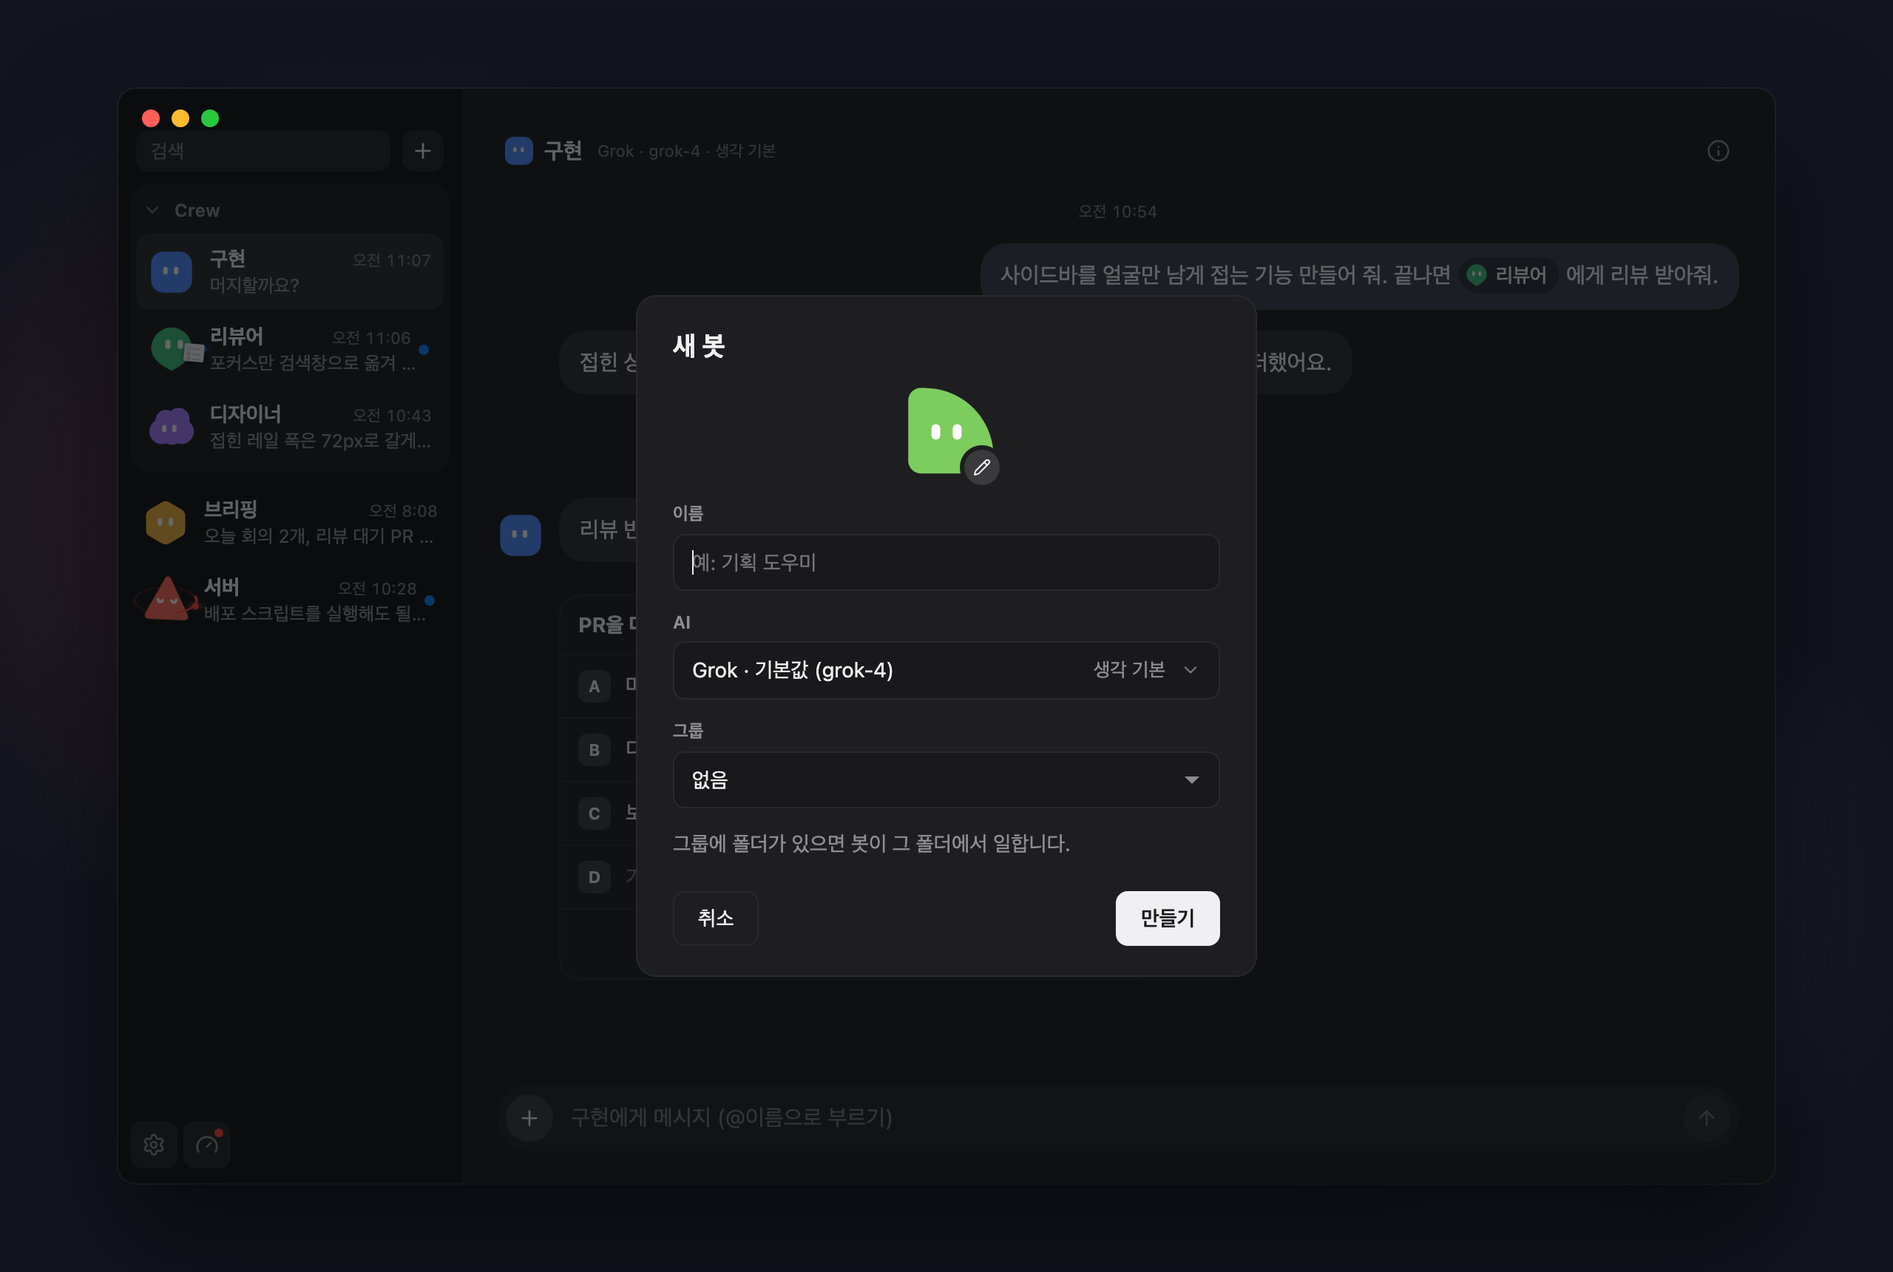
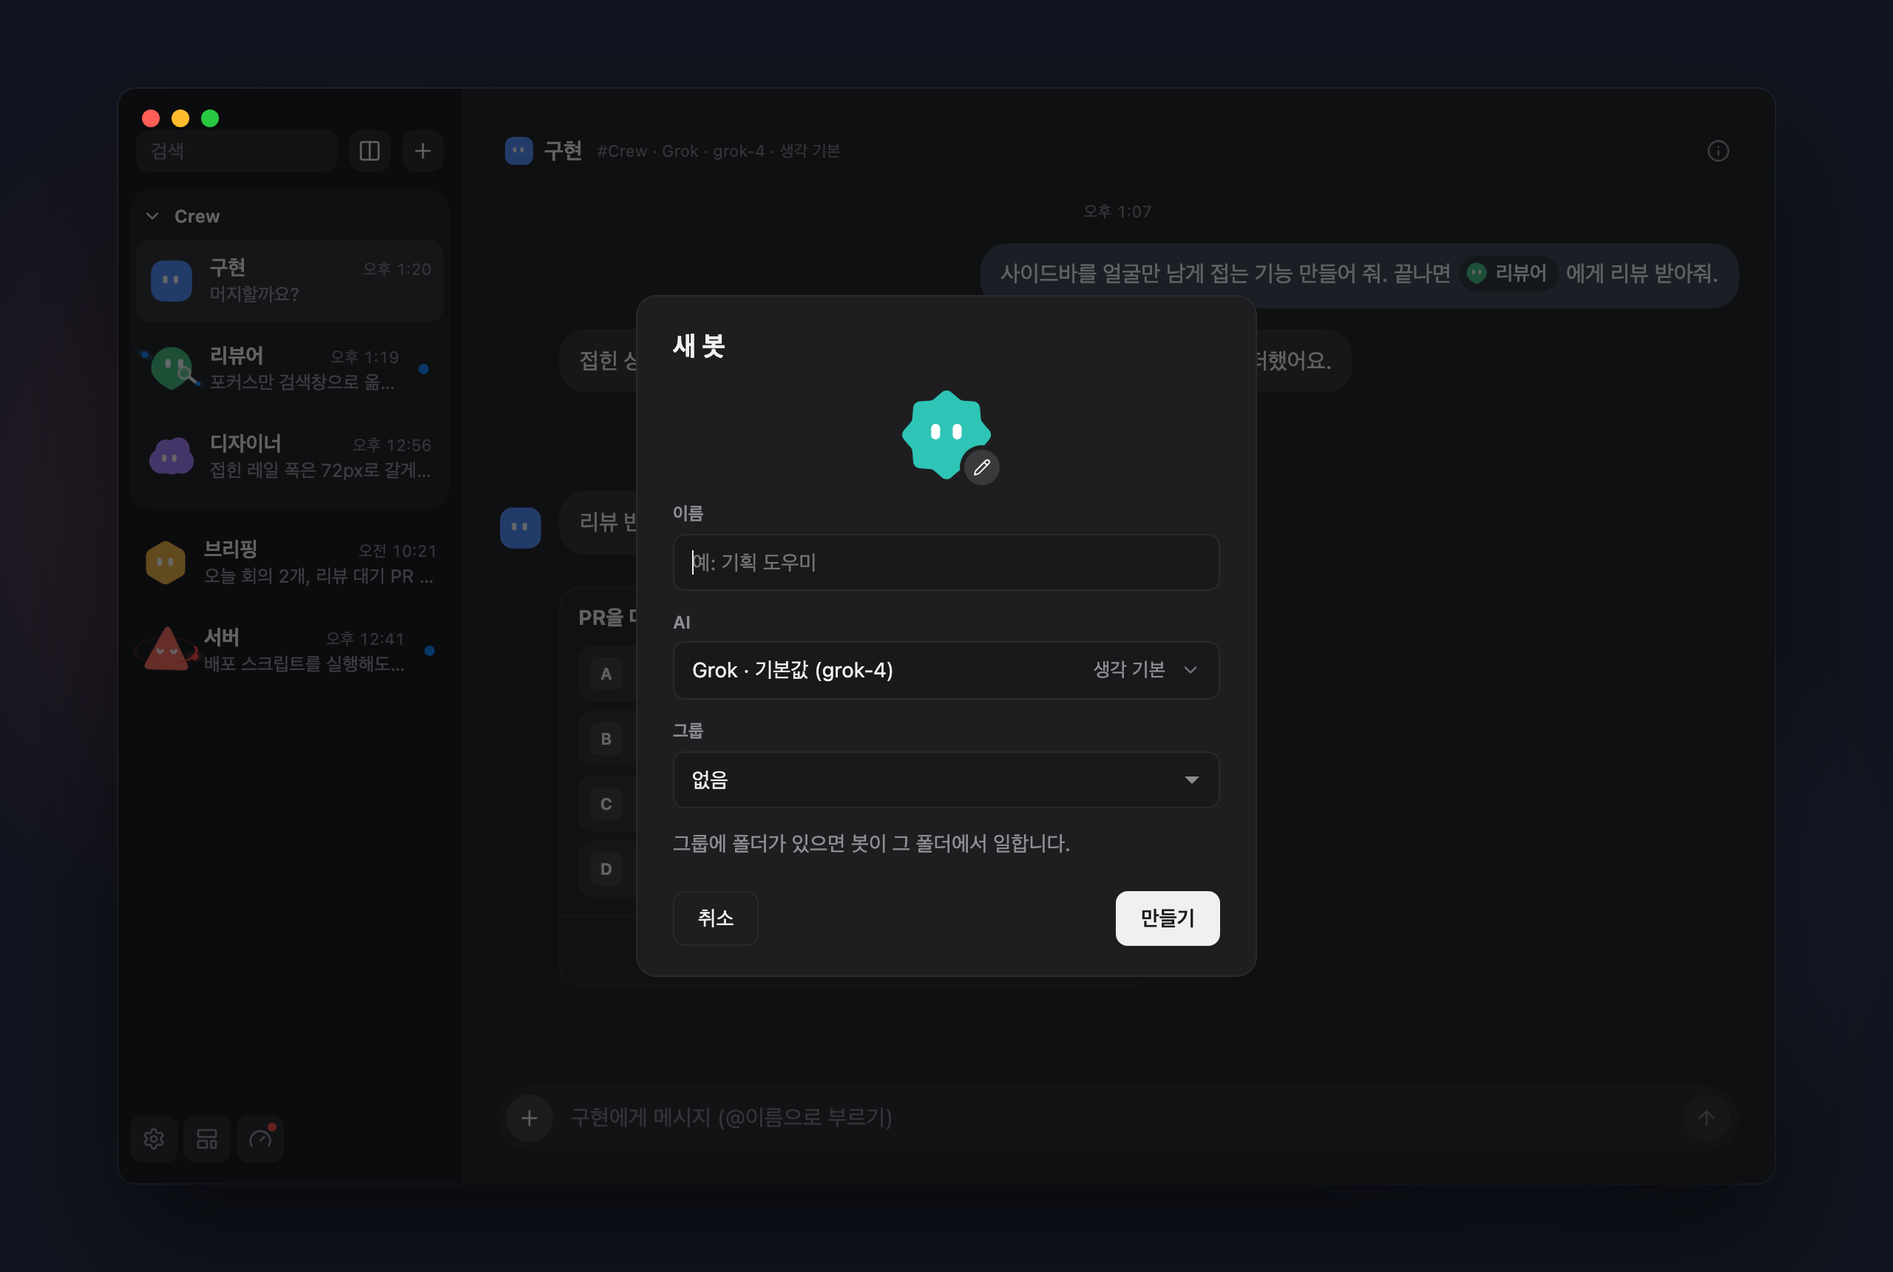
Bring the README up to 0.14.0: phones, templates, the archive, group leads, and the CLI's tell --now/--fyi and show. (#387)
Re-render the screenshots and add the archive sheet and a phone at 390 px.
Chrome keeps a headless window at least 500 wide, so phone.mjs sets the
width through DevTools.

diff --git a/crates/crew/ui/src/readme.tsx b/crates/crew/ui/src/readme.tsx
@@ -223,6 +223,17 @@ if (shot === "file") {
 const probe: RemoteServer = {
   url: "wss://router.acme.dev:7420", name: "crew-router", version: "0.1.0", protocol: 1, title: "Acme Team", signup: "invite",
 };
+// `?shot=archive`: the bot info sheet's 보관함, from links and files the
+// chat brought up. A made-up repository and paths, no one's real ones.
+if (shot === "archive") {
+  thread.impl.unshift(
+    { id: "a1", role: "assistant", from: "impl", ts: at(60 * 26), text: "PR 올렸어요: https://github.com/acme/app/pull/128\n관련 이슈는 https://github.com/acme/app/issues/121 이에요." },
+    { id: "a2", role: "assistant", from: "impl", ts: at(60 * 5), text: "설계 문서는 `~/Projects/app/docs/sidebar.md` 에 정리했어요. 캡처: ![접힌 레일](~/Projects/app/shots/rail.png)" },
+    { id: "a3", role: "assistant", from: "impl", ts: at(40), text: "배포했어요: https://app.acme.dev/preview 그리고 릴리즈 https://github.com/acme/app/releases/tag/v2.4.0" },
+    { id: "a4", role: "assistant", from: "impl", ts: at(20), text: "후속 PR: https://github.com/acme/app/pull/131" },
+  );
+}
+
 // The App opens the first bot in the list.
 const first =
   shot === "routines" ? "brief" : shot === "remote-handon" ? "rep" : remoteShot ? "acme/acc_k3j9x0" : "impl";
@@ -253,6 +264,16 @@ mockIPC(
         return { models: list, default: list[0] ?? null, installed: true };
       }
       case "get_group_memory": return "";
+      case "get_pins": return ["https://github.com/acme/app/pull/131"];
+      case "link_states": {
+        const known: Record<string, { kind: string; state: string; title: string }> = {
+          "https://github.com/acme/app/pull/128": { kind: "pr", state: "merged", title: "Fold the sidebar down to faces" },
+          "https://github.com/acme/app/issues/121": { kind: "issue", state: "closed", title: "Sidebar takes too much room" },
+          "https://github.com/acme/app/pull/131": { kind: "pr", state: "open", title: "Move focus to search when the rail unfolds" },
+        };
+        return (a.urls as string[]).map((url) => ({ url, ...(known[url] ?? {}) }));
+      }
+      case "file_states": return (a.paths as string[]).map(() => "exists");
       case "read_text_file": {
         const path = String(a.path);
         if (!path.endsWith(".ts") && !path.endsWith(".tsx")) throw `not found: ${path}`;
@@ -296,6 +317,13 @@ when(
     if (shot === "window") when(() => document.querySelector<HTMLElement>(".note-run-head"), (el) => el.click());
     if (shot === "new-bot") key("n");
     if (shot === "routines") key("R", true);
+    if (shot === "archive") {
+      key("i");
+      when(
+        () => [...document.querySelectorAll<HTMLElement>(".pane-tabs button")].find((b) => b.textContent === "보관함") ?? null,
+        (tab) => tab.click(),
+      );
+    }
     if (shot === "remote-add" || shot === "remote-join") {
       document.querySelector<HTMLElement>(".search-row .icon-btn:last-child")?.click();
       when(

diff --git a/docs/readme/frame.html b/docs/readme/frame.html
@@ -42,6 +42,9 @@
       gap: 8px;
       pointer-events: none;
     }
+    /* `&phone=1`: a phone, 390 wide, no window buttons. */
+    .phone .window { width: 390px; border-radius: 44px; box-shadow: 0 40px 80px rgba(0, 0, 0, 0.5), 0 0 0 10px #1c1c1e, 0 0 0 11px rgba(255, 255, 255, 0.08); }
+    .phone .traffic { display: none; }
     .traffic i {
       width: 12px;
       height: 12px;
@@ -59,6 +62,7 @@
   <script>
     const q = new URLSearchParams(location.search);
     document.getElementById("window").style.height = (q.get("h") || "740") + "px";
+    if (q.get("phone")) document.body.classList.add("phone");
     document.getElementById("app").src = q.get("img");
   </script>
 </body>

diff --git a/README.md b/README.md
@@ -10,6 +10,7 @@
 - 대화 중에 `@이름`으로 다른 봇을 부르거나
 - 봇끼리 직접 일을 넘기게 하거나
 - 정해 둔 시각에 루틴으로 봇에게 일을 맡겨요
+- 밖에서는 휴대폰 브라우저로 같은 화면을 열어요
 
 Crew는 모델을 내장하지 않아요. 설치해 둔 CLI를 실행하고 그 답만 말풍선으로 보여 줘요.
 
@@ -44,9 +45,10 @@ xattr -dr com.apple.quarantine /Applications/Crew.app
 ## 시작하기
 
 1. Crew를 열거나 터미널에서 `crew`를 실행해요.
-2. **새 봇** (`⌘N`)에서 이름, 아바타, AI·모델·생각(effort), 그룹을 골라요. 고를 것 없이 바로 만들려면 `⌘⇧N`을 눌러요. 만들어진 봇이 먼저 어떤 일을 맡을지 물어요.
+2. 처음이라면 사이드바의 **템플릿**에서 권장 팀을 골라 그룹을 한 번에 만들어도 돼요. 봇 하나씩 만들려면 **새 봇** (`⌘N`)에서 이름, 아바타, AI·모델·생각(effort), 그룹을 골라요. 고를 것 없이 바로 만들려면 `⌘⇧N`을 눌러요. 만들어진 봇이 먼저 어떤 일을 맡을지 물어요.
 3. 메시지를 보내요. `@이름`으로 다른 봇을 부르고, `⌘U`로 파일을 붙이고, `/이름`으로 저장해 둔 스킬을 넣어요.
 4. 이름 바꾸기, 봇·그룹 만들기, 루틴 등록도 채팅에서 봇에게 부탁하면 돼요.
+5. 설정 › 일반 › **내 이름**을 적어 두면 봇이 그 이름으로 불러요.
 
 > 봇은 기본으로 각 CLI의 승인 프롬프트를 건너뛰도록 실행돼요(`--dangerously-skip-permissions`, `--yolo` 등). 봇이 작업 폴더에서 바로 파일을 고치고 명령을 실행한다는 뜻이니, 알고 쓰세요. 명령은 봇 정보에서 바꿀 수 있어요.
 
@@ -63,19 +65,49 @@ xattr -dr com.apple.quarantine /Applications/Crew.app
 **채팅**
 
 - 스트리밍 말풍선, 마크다운·표 렌더링, 말풍선마다 복사·답장
-- 봇이 작업 중일 때 보낸 메시지는 기본으로 지금 턴을 멈추고 바로 시작해요. 설정에서 대기열로 바꾸면 순서대로 기다리고, 대기 중인 줄은 고치거나 취소할 수 있어요
+- 답장을 누르면 그 말풍선이 입력창 위에 인용으로 붙고, 보낸 메시지에도 인용이 남아요. 누르면 원래 말풍선으로 가요
+- 봇이 작업 중일 때 보낸 메시지는 기본으로 지금 턴을 멈추고 바로 시작해요(인터럽트). 설정 › 메시지 전달에서 대기열로 바꾸면 순서대로 기다리고, 대기 중인 줄은 고치거나 취소할 수 있어요. 대기열에서도 `⌘⇧↩`는 바로 보내요
+- 답을 마치고 CI 같은 백그라운드 작업만 지켜보는 봇에게는, 인터럽트여도 감시가 끝난 뒤에 보내요
 - 봇이 고르거나 적으라고 물으면 채팅에 질문 카드가 떠요. 여러 질문은 한 카드에서 넘겨 가며 답해요
 - 도구 호출과 서브 에이전트 작업은 한 줄로 접히고, 누르면 사이드 채팅으로 열려요
 - 대화를 열면 처음 안 읽은 줄로 가요. 안 읽음 표시, Dock 배지, 완료·차단·루틴 실패 알림
-- 다른 봇이 질문하거나, 승인을 기다리거나, 실패하거나, 긴 작업을 끝내면 창 위 가운데 아일랜드가 그 봇의 표정으로 알려 줘요. 저장·오류 같은 앱 알림은 같은 자리에 상태 점으로 떠요
+- 다른 봇이 질문하거나, 승인을 기다리거나, 실패하거나, 긴 작업을 끝내면 창 위 가운데 아일랜드가 그 봇의 표정으로 알려 줘요. 알림이 쌓이면 묶음 한 줄에 가장 급한 것(질문·승인 먼저)을 보여 주고, 몇 개 더 있는지와 이동 버튼을 붙여요
+- 저장·오류 같은 앱 알림은 같은 자리에 상태 점으로 잠깐 떴다 사라지고, 묶음에는 쌓이지 않아요
+- `⌘K`로 봇 이름을 쳐서 바로 가고, `⌘F`로 대화를 검색해요. `⌘D` / `⌘⇧D`로 창을 나눠 두 봇을 같이 봐요
 
 **봇과 그룹**
 
 - 도형 아바타와 색, 또는 사진. 얼굴 표정으로 작업 중·확인 대기·실패·질문을 알려 줘요
 - AI는 나중에 봇 정보에서 바꿔도 대화가 이어져요
-- 복제하면 복사본이 먼저 인사하고 어떤 일을 맡을지 물어요. 대화 지우기, 삭제
+- 복제하면 창이 떠서 함께 가져갈 것을 골라요. 프로필 사진, 예약된 일, 봇 메모리, 같은 그룹, 대화 내용. AI·모델·역할·얼굴 모양은 늘 복사돼요. 대화 지우기, 삭제
 - 사이드바 그룹으로 봇을 묶고, 그룹마다 작업 폴더와 그룹 메모리를 정할 수 있어요
+- 그룹 설정의 **작업 폴더 분리**를 켜면 그 그룹의 봇은 저마다 git 워크트리에서 일하고, 공유 체크아웃은 그대로 둬요. 그룹마다 따로 켜고 꺼요
 - 그룹은 화살표로만 접혀요. 그룹 이름이나 그 안의 봇을 누르면 그 그룹이 포커스되고(이름이 진해져요), `⌘⇧N`으로 만드는 봇이 거기 들어가요. 그룹 밖의 봇을 누르면 포커스가 풀려요
+
+**대표 봇**
+
+- 봇을 우클릭해 **그룹 대표로 지정**하면 그 봇이 그룹을 대표해요
+- 대표 채팅 머리의 버튼으로 그룹 패널을 열면 팀원들이 대화 옆에 보여요. 닫을 때까지 열려 있어요
+- 팀원은 대표가 맡긴 일의 결과를 대표에게 한 번 알리고, 사용자에게 물을 것도 대표에게 넘겨요. 대표가 모아서 물어요. 이 규칙은 공유 메모리 노트에 자동으로 붙어요
+- 설정 › **그룹 대표 알림만 받기**를 켜면 대표가 있는 그룹에서는 대표가 끝냈을 때만 알려요. 질문이나 승인 대기는 팀원 것도 알려요
+
+**템플릿**
+
+- 사이드바 **템플릿**에 그룹을 만들 때 쓸 봇 조합이 있어요. Crew 권장 4개(개발 팀, 제품·디자인 팀, 리서치·문서 팀, 복잡한 업무)와 내 템플릿
+- 그룹 만들기에서 템플릿을 고르면 봇, 대표, 그룹 메모리, 작업 폴더 분리가 한 번에 만들어져요
+- 템플릿의 봇마다 AI 급(강함·보통·빠름)이 있어요. 이 PC에 그 AI가 없거나 한도에 걸렸으면 같은 급의 다른 AI로 만들어요
+- 권장 템플릿은 복제해서 고치고, 지금 있는 그룹을 그대로 템플릿으로 저장할 수도 있어요. 대화와 봇 메모리는 담지 않아요
+
+**보관함**
+
+<p align="center">
+  <img src="docs/readme/archive.png" alt="보관함 — 봇 정보 시트에서 대화에 나온 링크를 고정, 오늘, 이번 주로 나눠 보여 줘요" width="920">
+</p>
+
+- 봇 정보(`⌘I`)의 **보관함** 탭에 그 대화에 나온 링크·파일·이미지가 모여요. 대표 봇의 보관함에는 팀원들 것도 모여요
+- GitHub PR·이슈는 열림·머지됨·닫힘 상태가 붙어요
+- 자주 보는 것은 고정해 맨 위에 두고, 검색할 수 있어요. **대화에서 보기**를 누르면 그 말이 나온 줄로 가요
+- 없어진 파일은 없어졌다고 표시해요. 토큰처럼 보이는 값이 든 링크는 모으지 않아요
 
 **메모리**
 
@@ -90,6 +122,18 @@ xattr -dr com.apple.quarantine /Applications/Crew.app
 - 대표 봇은 내 PC의 공유 메모리와 다른 봇 목록을 보지 않고, 라우터의 팀 공용 메모만 읽어요. 내가 고른 로컬 봇에게만 일을 나눠요
 - 받는 PC가 꺼져 있으면 라우터가 보관했다가 켜지면 넘겨요
 
+**휴대폰에서 쓰기**
+
+<p align="center">
+  <img src="docs/readme/phone.png" alt="휴대폰 화면 — 같은 대화와 질문 카드를 폭 390에서" width="400">
+</p>
+
+- Crew를 켜 둔 Mac이 같은 화면을 웹으로 내보내요. 휴대폰 브라우저로 열고 홈 화면에 추가하면 앱처럼 써요
+- 집 밖에서는 [Tailscale](https://tailscale.com)로 Mac에 닿아요. 공개 인터넷에는 포트를 열지 않아요
+- 설정 › 모바일에서 **모바일 접속**을 켜고 **연결 코드 만들기**를 눌러요. 휴대폰 카메라로 QR을 찍거나 6자리 코드를 넣으면 연결돼요
+- 같은 봇·대화·조작을 그대로 써요. 봇 목록은 왼쪽 서랍, 패널은 아래에서 올라오는 시트예요. 말풍선을 오른쪽에서 왼쪽으로 밀면 답장이에요
+- 켜는 법, 보안, 데스크톱과 다른 점은 [docs/mobile.md](docs/mobile.md)에 있어요
+
 **루틴**
 
 <p align="center">
@@ -103,7 +147,7 @@ xattr -dr com.apple.quarantine /Applications/Crew.app
 
 - 설정 옆 사용량 버튼에서 Claude / Grok / Codex / Antigravity 플랜의 한도 사용률을 봐요. 80%를 넘으면 빨간 점이 붙어요
 - 설정 > 일반 > 기본 AI. 새 봇 창이 이 AI로 시작하고, `⌘⇧N`은 이 AI로 포커스된 그룹에 봇을 바로 만들어요
-- 그룹 설정의 작업 폴더 분리. 켠 그룹의 봇은 프로젝트의 git 워크트리에서 일하고, 공유 체크아웃은 그대로 둡니다. 새 그룹은 켜져 있어요
+- 워크트리마다 빌드 결과물(Cargo `target/`)을 따로 두고, 쉬는 봇의 것과 일주일간 안 쓴 예전 공유 캐시는 저절로 지워 디스크를 돌려받아요. 자세한 건 [docs/how-it-works.md](docs/how-it-works.md)에 있어요
 - 대화 폭(전체/좁게), 얼굴만 남게 접히는 사이드바
 - 한국어 / English, 다크 / 라이트 / 시스템
 
@@ -115,16 +159,18 @@ xattr -dr com.apple.quarantine /Applications/Crew.app
 
 | 묶음 | 키 | 동작 |
 | --- | --- | --- |
-| 일반 | `⌘/` | 단축키 |
+| 일반 | `⌘/` | 단축키 보기 |
 | | `⌘,` | 설정 |
-| 이동 | `⌘K` | 검색 |
+| 이동 | `⌘K` | 봇 바로 가기 |
+| | `⌘F` | 검색 |
 | | `⌘J` | 입력창 |
 | | `Tab` | 입력창 (포커스가 없을 때) |
 | | `⌘⌥↑` / `⌘⌥↓` | 이전 / 다음 대화 |
-| | `⌘⇧↓` | 맨 아래 |
-| 만들기 | `⌘N` | 새 봇 창 열기 |
-| | `⌘⇧N` | 창 없이 바로 새 봇. 기본 AI, 무작위 얼굴, 포커스된 그룹 |
-| 대화 | `⌘I` | 봇 정보 |
+| | `⌘⇧↓` | 맨 아래로 |
+| | `⌘D` / `⌘⇧D` | 좌우로 / 위아래로 나누기 |
+| 만들기 | `⌘N` | 새 봇 |
+| | `⌘⇧N` | 바로 새 봇. 기본 AI, 무작위 얼굴, 열린 그룹 |
+| 대화 | `⌘I` | 정보 |
 | | `⌘⇧R` | 루틴 |
 | | `⌘.` | 중지 |
 | | `⌘⇧↩` | 바로 보내기 |
@@ -142,8 +188,15 @@ crew                                         # 앱 열기
 crew stop                                    # 데몬까지 종료
 crew agent add review --cli claude --name "리뷰어"
 crew tell review 방금 패치 리뷰해줘
+crew tell --now review 잠깐 멈춰. 브랜치가 바뀌었어   # 지금 턴에 끼어들기
+crew tell --fyi review 배포는 금요일에 하지 않아요      # 다음 메시지와 함께 읽는 메모, 답 없음
+crew ask -q "머지할까요?" -o 네 -o 아니요              # 사용자에게 고르기 카드
+crew show src/App.tsx:42                              # 채팅 옆에 파일 열기
+crew group add --name "리뷰" --bot review --bot impl
 crew routine list
 ```
+
+`crew tell`은 받는 봇이 일하는 중이면 그 턴이 끝난 뒤에 전해요. 멈추거나 취소처럼 바로 들어야 하는 말은 `--now`, 답이 필요 없는 규칙이나 소식은 `--fyi`로 보내요.
 
 전체 명령은 [docs/cli.md](docs/cli.md)에 있어요.
 
@@ -153,6 +206,7 @@ crew routine list
 
 - [Crew가 동작하는 방식](docs/how-it-works.md) — 봇 실행, 핸드오프, 메모리, 메시지 전달, 데이터 위치
 - [CLI](docs/cli.md) — 전체 명령과 옵션
+- [휴대폰에서 쓰기](docs/mobile.md) — 켜는 법, 보안 모델, 휴대폰 화면 규칙
 - [원격 봇](docs/router.md) — crew-router로 다른 PC의 봇과 주고받는 방식과 프로토콜
 - [개발](docs/development.md) — 소스 빌드, 테스트, 릴리스
 

diff --git a/docs/cli.md b/docs/cli.md
@@ -30,6 +30,8 @@ crew group memory append 이 그룹은 develop 브랜치에서 일한다   # 봇
 
 crew tell grok 이 파일의 테스트를 보강해줘
 crew tell review --from grok 방금 패치 리뷰해줘
+crew tell --now review 잠깐 멈춰. 브랜치가 바뀌었어
+crew tell --fyi review 배포는 금요일에 하지 않는다
 crew tell review <<'EOF'
 인자가 없으면 메시지를 stdin에서 읽어요
 EOF
@@ -37,6 +39,8 @@ crew ask --question "어느 쪽을 고를래?" --option A --option B --option C
 crew ask --question "어떤 걸 넣을까?" --option 테스트 --option 문서 --multi
 crew ask --question "로그인" --input 아이디 --input 비밀번호
 crew ask -q "머지할까요?" -o 네 -o 아니요 -q "릴리즈 이름은?" --input 이름
+
+crew show src/App.tsx:42                    # 채팅 옆에 파일 열기 (봇 세션 안에서)
 
 crew routine add grok --name "아침" --schedule "0 8 * * 1-5" --prompt "오늘 할 일 브리핑"
 crew routine add grok --name "아침" --schedule "평일 8시에 브리핑" --prompt "오늘 할 일 브리핑"
@@ -78,6 +82,14 @@ crew reset grok --drop-routines
 원격 봇은 0.6.0부터 쓸 수 있어요. 라우터에 붙는 건 앱의 **+ → 원격 봇 추가**에서 해요. `crew remote list`는 라우터마다 별칭, 주소, 내 이름, 대표 봇, 연결 상태와 팀원들의 원격 봇 id(`<별칭>/<계정 id>`)를 출력해요. 그 id로 `crew tell`하면 그 봇이 자기 PC에서 일하고, 답은 보낸 봇에게 돌아와요.
 
 `crew team memory show|append|set`은 라우터의 팀 공용 메모를 다뤄요. `--remote <별칭>`을 생략하면 대표 봇 세션 안에선 그 봇의 라우터, 아니면 라우터가 하나일 때 그 라우터예요. `set`은 그 사이 다른 사람이 고쳤으면 거절돼요. 데몬과 라우터 연결이 필요해요.
+
+## `crew tell`
+
+받는 봇이 일하는 중이면 그 턴이 끝난 뒤에 전해요. `--now`는 지금 턴을 멈추고 이 말부터 시작하게 해요. 멈춰, 취소, 잠깐처럼 바로 들어야 하는 말에 써요. `--fyi`는 받는 봇이 다음 메시지와 함께 읽는 메모예요. 턴을 시작하지 않고 답도 돌아오지 않아요. 둘은 같이 쓸 수 없어요. 메시지를 생략하면 표준 입력에서 읽어서 heredoc도 돼요.
+
+## `crew show`
+
+텍스트·코드 파일을 채팅 옆에 열어 사용자에게 보여 줘요. `경로:줄`이면 그 줄에서 열려요. 봇은 `--agent`를 생략하면 `CREW_AGENT_ID`의 채팅이에요.
 
 ## `crew ask`
 
